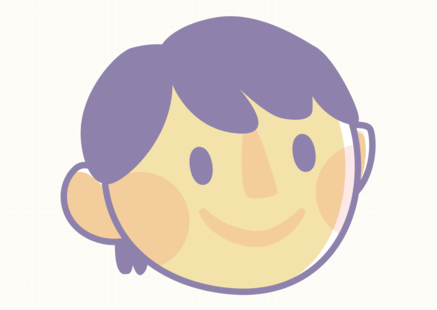
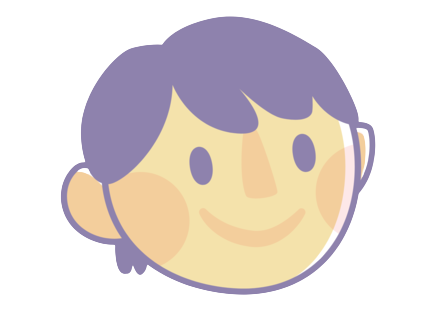
CSS: home

diff --git a/index.html b/index.html
@@ -10,7 +10,7 @@
       content="Portfolio for world-renowned software engineer KwangYong"
     />
     <meta name="author" content="KwangYong" />
-    <link rel="icon" type="image/png" href="imgs/favicon3.png" />
+    <link rel="icon" type="image/png" href="imgs/favicon4.png" />
     <script
       src="https://kit.fontawesome.com/d5e2d6086f.js"
       crossorigin="anonymous"
